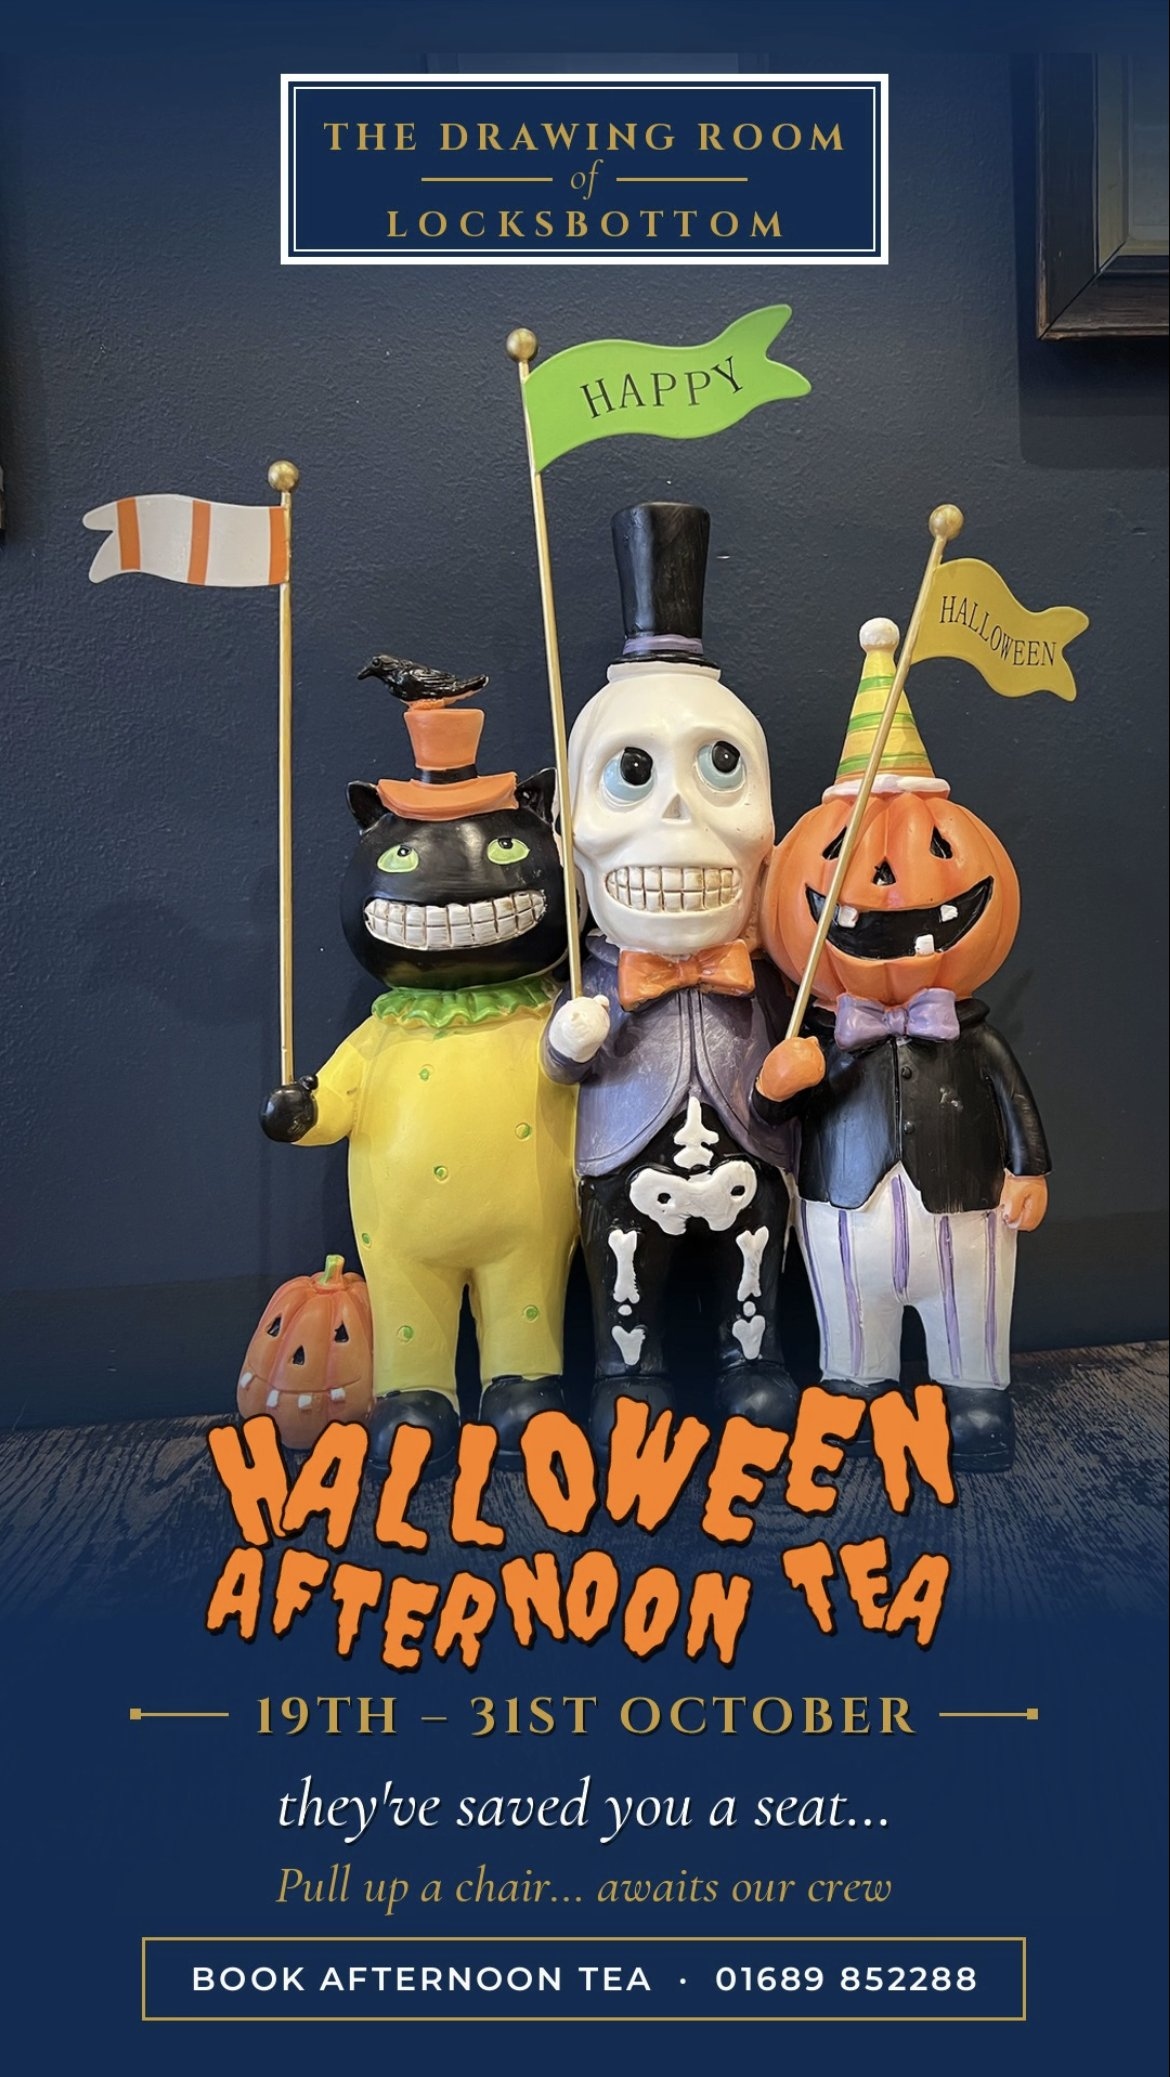
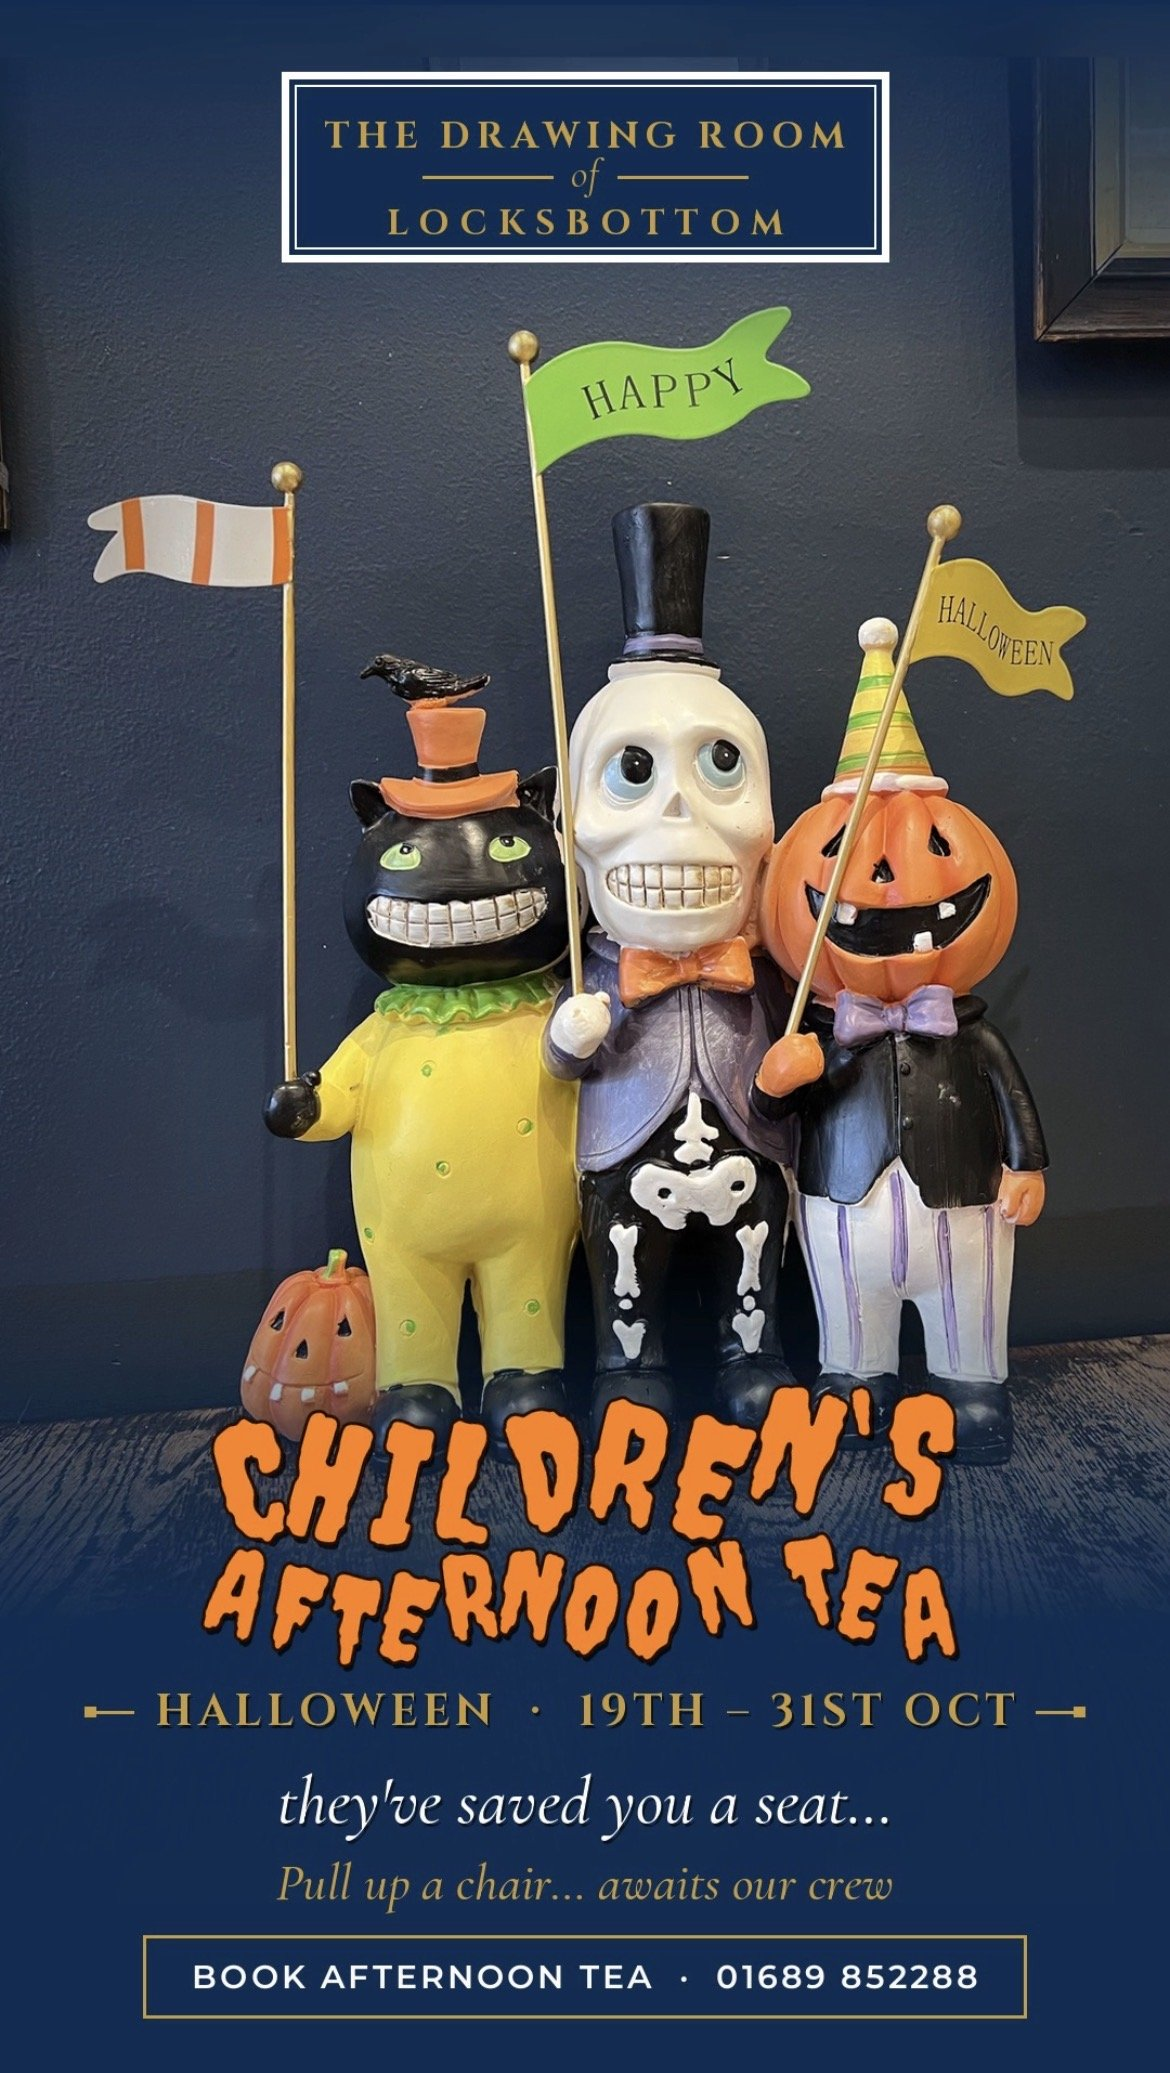
Swap in new Children's Afternoon Tea Halloween poster

diff --git a/index.html b/index.html
@@ -192,7 +192,7 @@
                 <!-- Left Column: Graphic Media, Badge, and Feature Icons -->
                 <div class="hero-about-media reveal-zoom">
                     <div class="about-image-wrapper hero-carousel">
-                        <img src="images/halloween-afternoon-tea.jpg" loading="lazy" alt="Halloween Afternoon Tea at The Drawing Room, 19th to 31st October" class="hero-carousel-slide">
+                        <img src="images/halloween-afternoon-tea.jpg" loading="lazy" alt="Children's Halloween Afternoon Tea at The Drawing Room, 19th to 31st October" class="hero-carousel-slide">
                         <img src="images/hero.jpg" loading="lazy" alt="Atmospheric drawing room background image" class="hero-carousel-slide">
                         <!--
                         <div class="about-badge">
